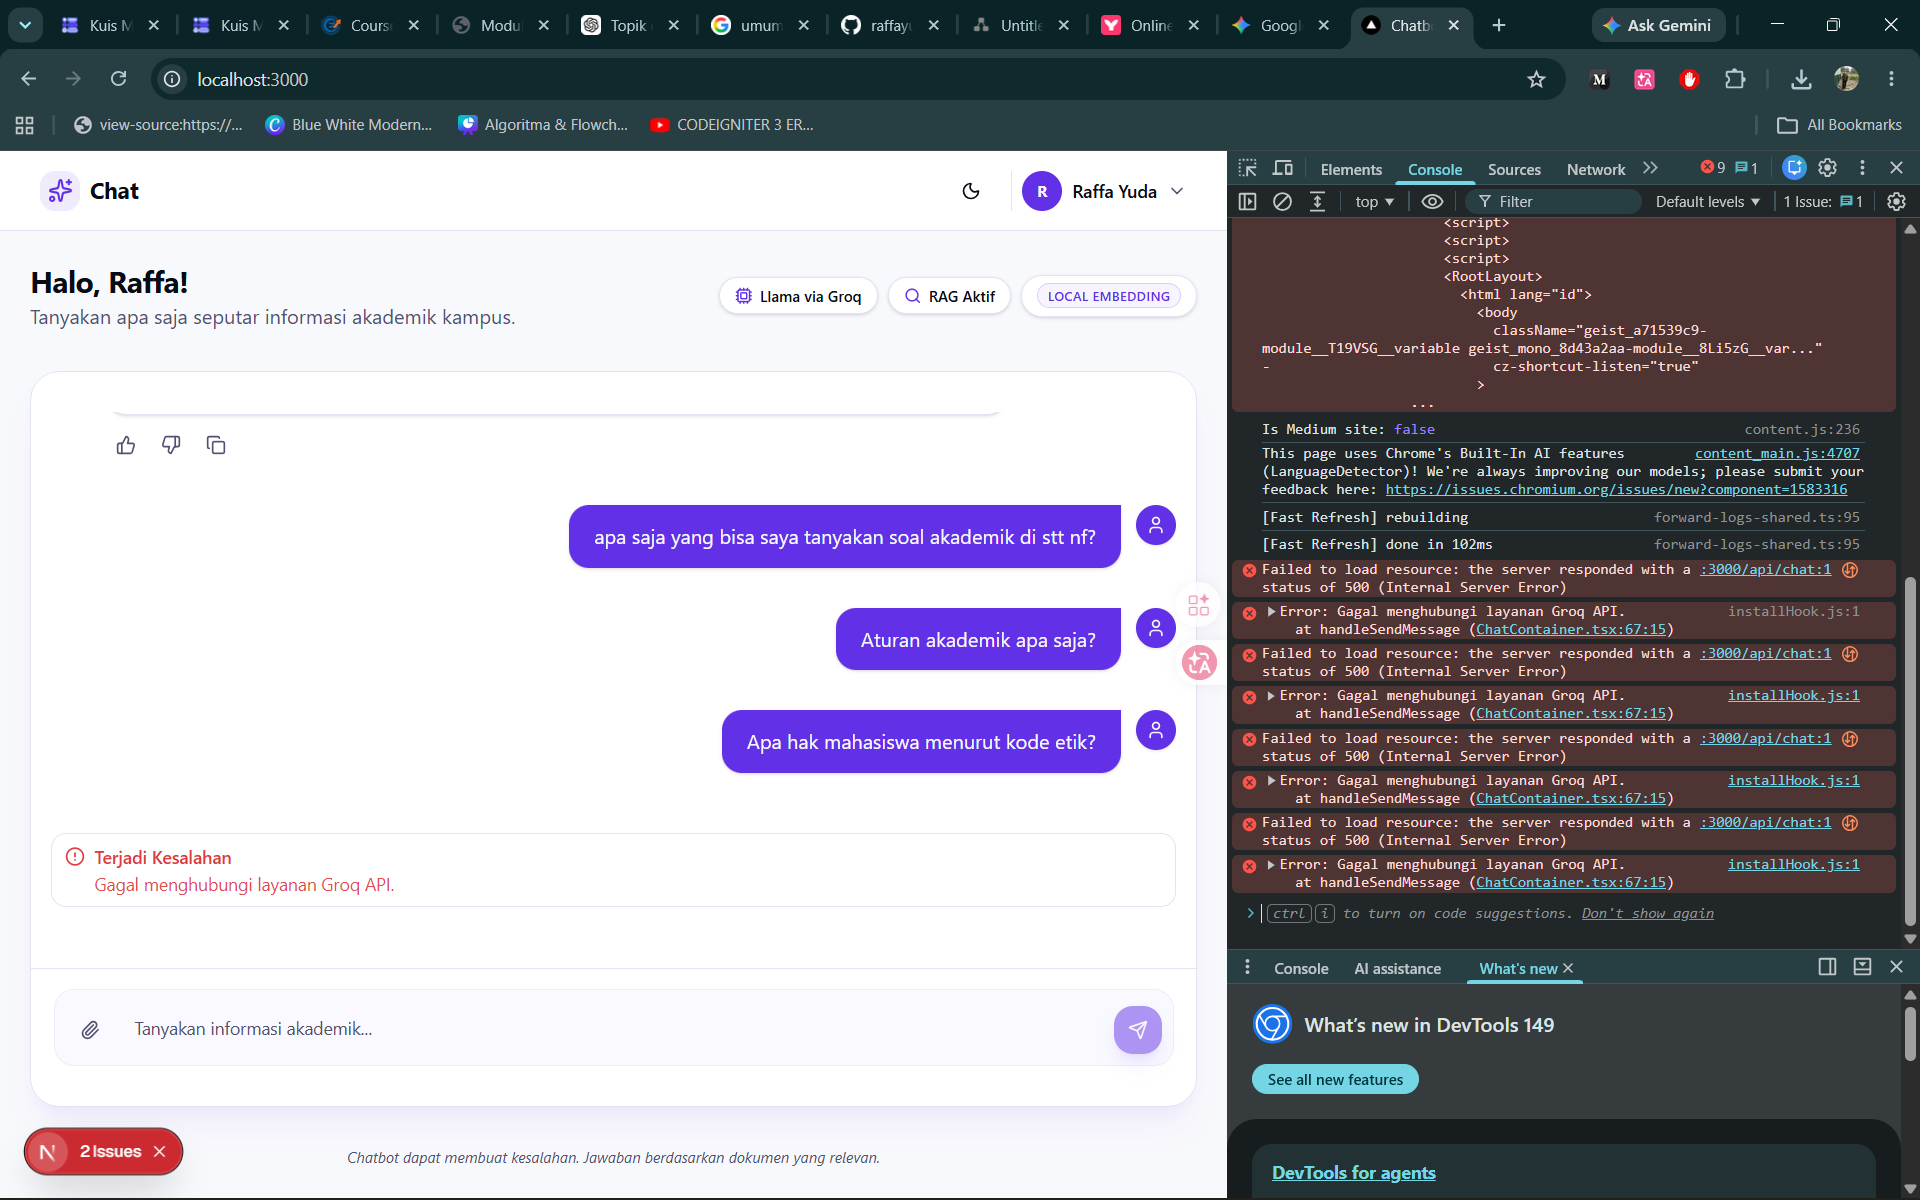
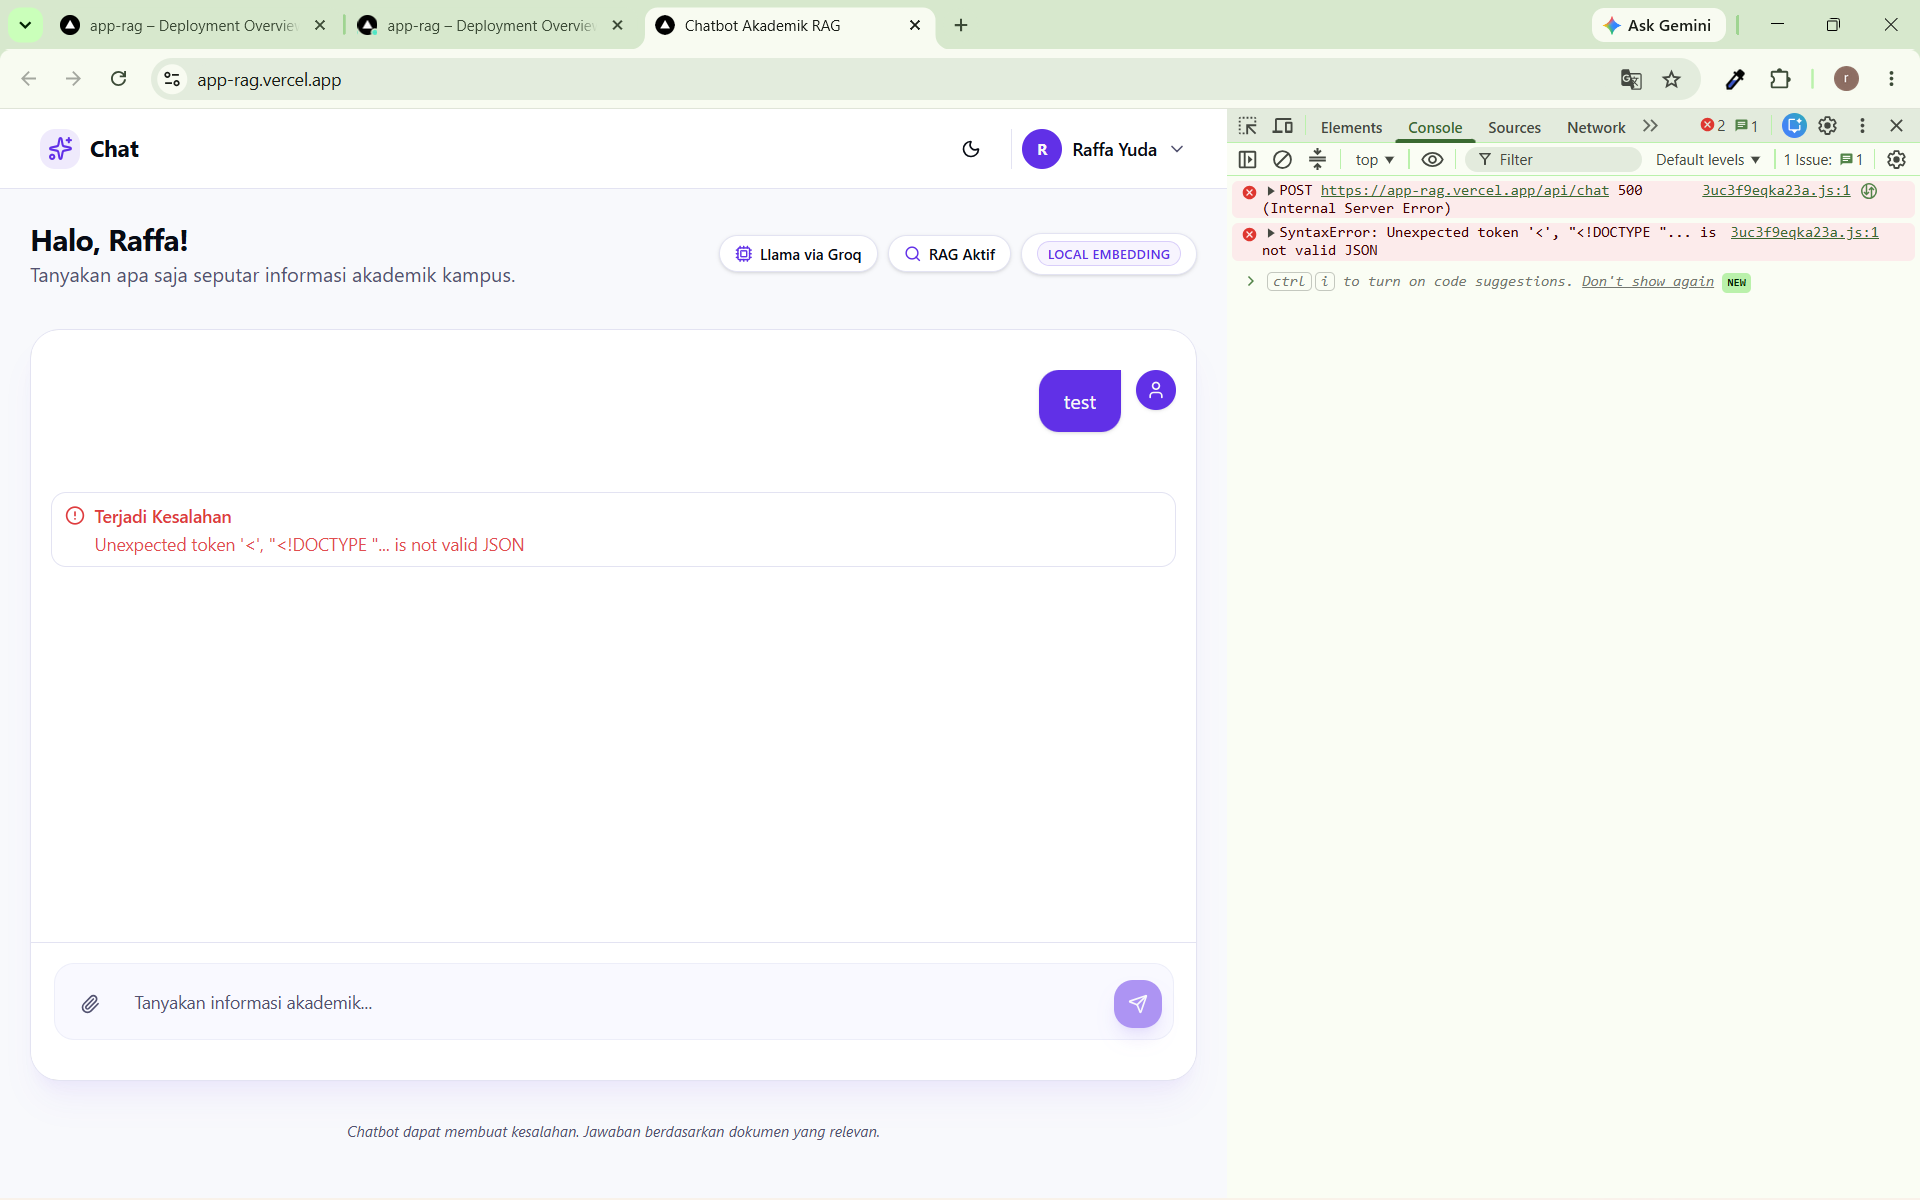
Refactor code structure for improved readability and maintainability

diff --git a/lib/rag.ts b/lib/rag.ts
@@ -14,9 +14,15 @@ export async function answerQuestion(question: string, history?: string): Promis
     const relevantChunks = rawChunks.filter(chunk => chunk.score > 0.3);
 
     // Menggabungkan teks dari chunk yang relevan (jika ada)
-    const context = relevantChunks.length > 0 
+    let context = relevantChunks.length > 0 
         ? relevantChunks.map(chunk => chunk.text).join("\n\n---\n\n")
-        : "Tidak ada informasi spesifik di dokumen untuk pertanyaan terbaru ini. Gunakan riwayat percakapan jika ini adalah pertanyaan lanjutan.";
+        : "";
+
+    if (!context && (!history || history === "")) {
+        context = "Tidak ada informasi spesifik di dokumen untuk pertanyaan terbaru ini.";
+    } else if (!context) {
+        context = "Gunakan riwayat percakapan untuk menjawab jika relevan, karena tidak ada informasi baru dari dokumen.";
+    }
 
     // Batasi riwayat percakapan jika terlalu panjang (ambil 2000 karakter terakhir)
     const trimmedHistory = history && history.length > 2000 

diff --git a/lib/vector-store.ts b/lib/vector-store.ts
@@ -3,7 +3,7 @@ import path from 'path';
 import { DocumentChunk, RetrievedChunk } from './types';
 import { embedText } from './embeddings';
 
-const VECTOR_STORE_PATH = process.env.VECTOR_STORE_PATH || './data/vectorstore/chunks.json';
+const VECTOR_STORE_PATH = path.join(process.cwd(), 'data', 'vectorstore', 'chunks.json');
 
 export async function saveChunks(chunks: DocumentChunk[]): Promise<void> {
     const dir = path.dirname(VECTOR_STORE_PATH);

diff --git a/lib/embeddings.ts b/lib/embeddings.ts
@@ -1,4 +1,8 @@
-import { pipeline, FeatureExtractionPipeline } from '@xenova/transformers';
+import { pipeline, FeatureExtractionPipeline, env } from '@xenova/transformers';
+
+// Konfigurasi khusus untuk Vercel/Serverless
+env.cacheDir = '/tmp/transformers-cache';
+env.allowLocalModels = false;
 
 let extractor: FeatureExtractionPipeline | null = null;
 
